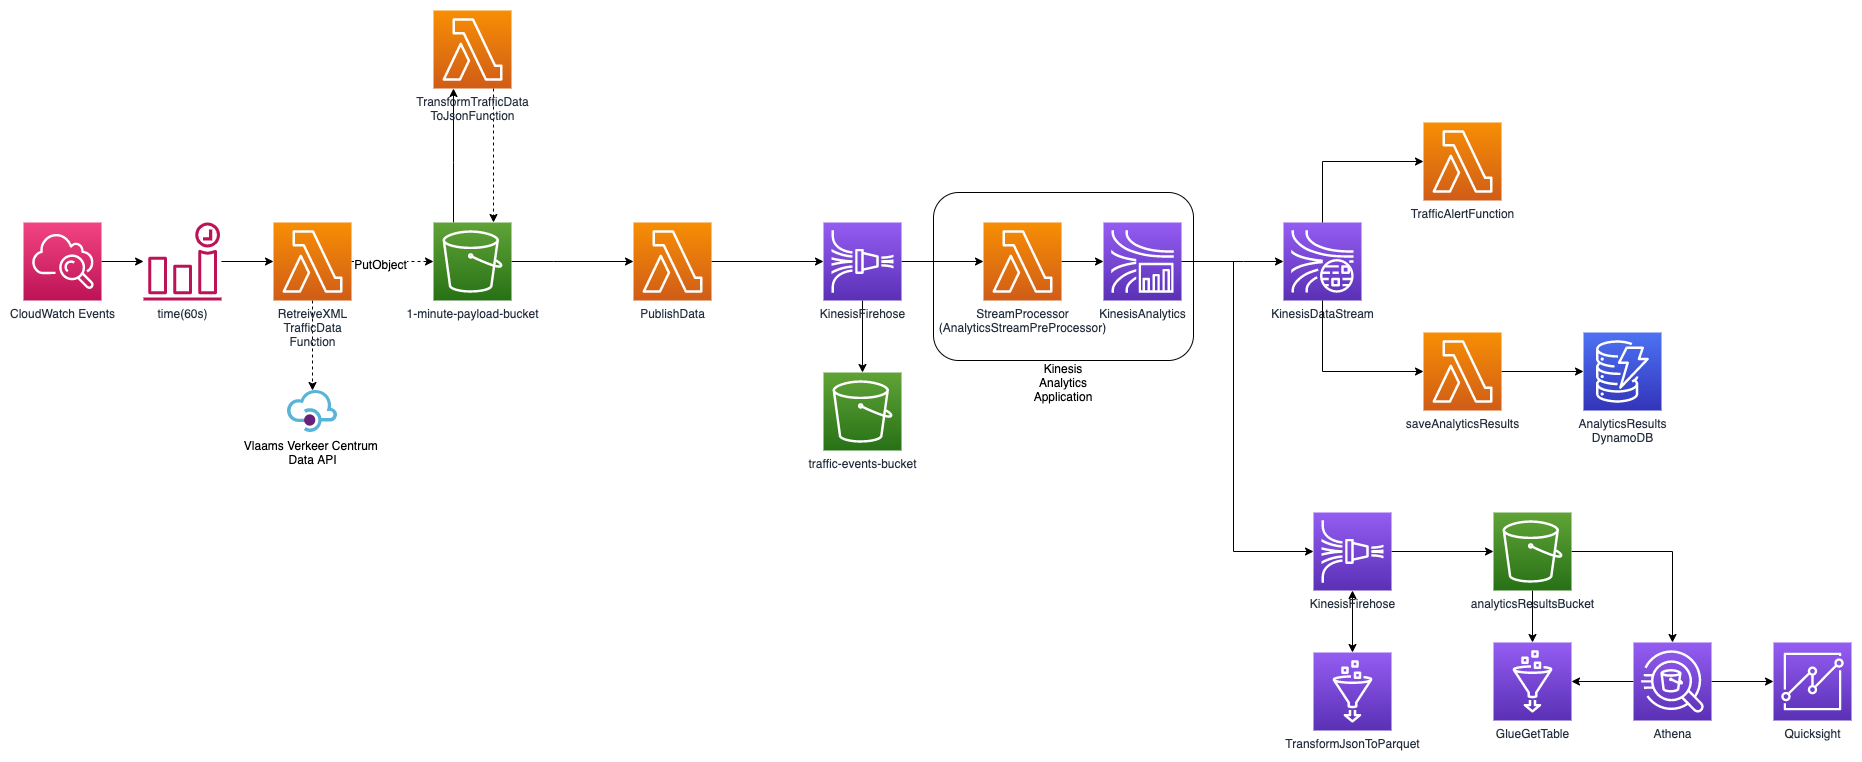
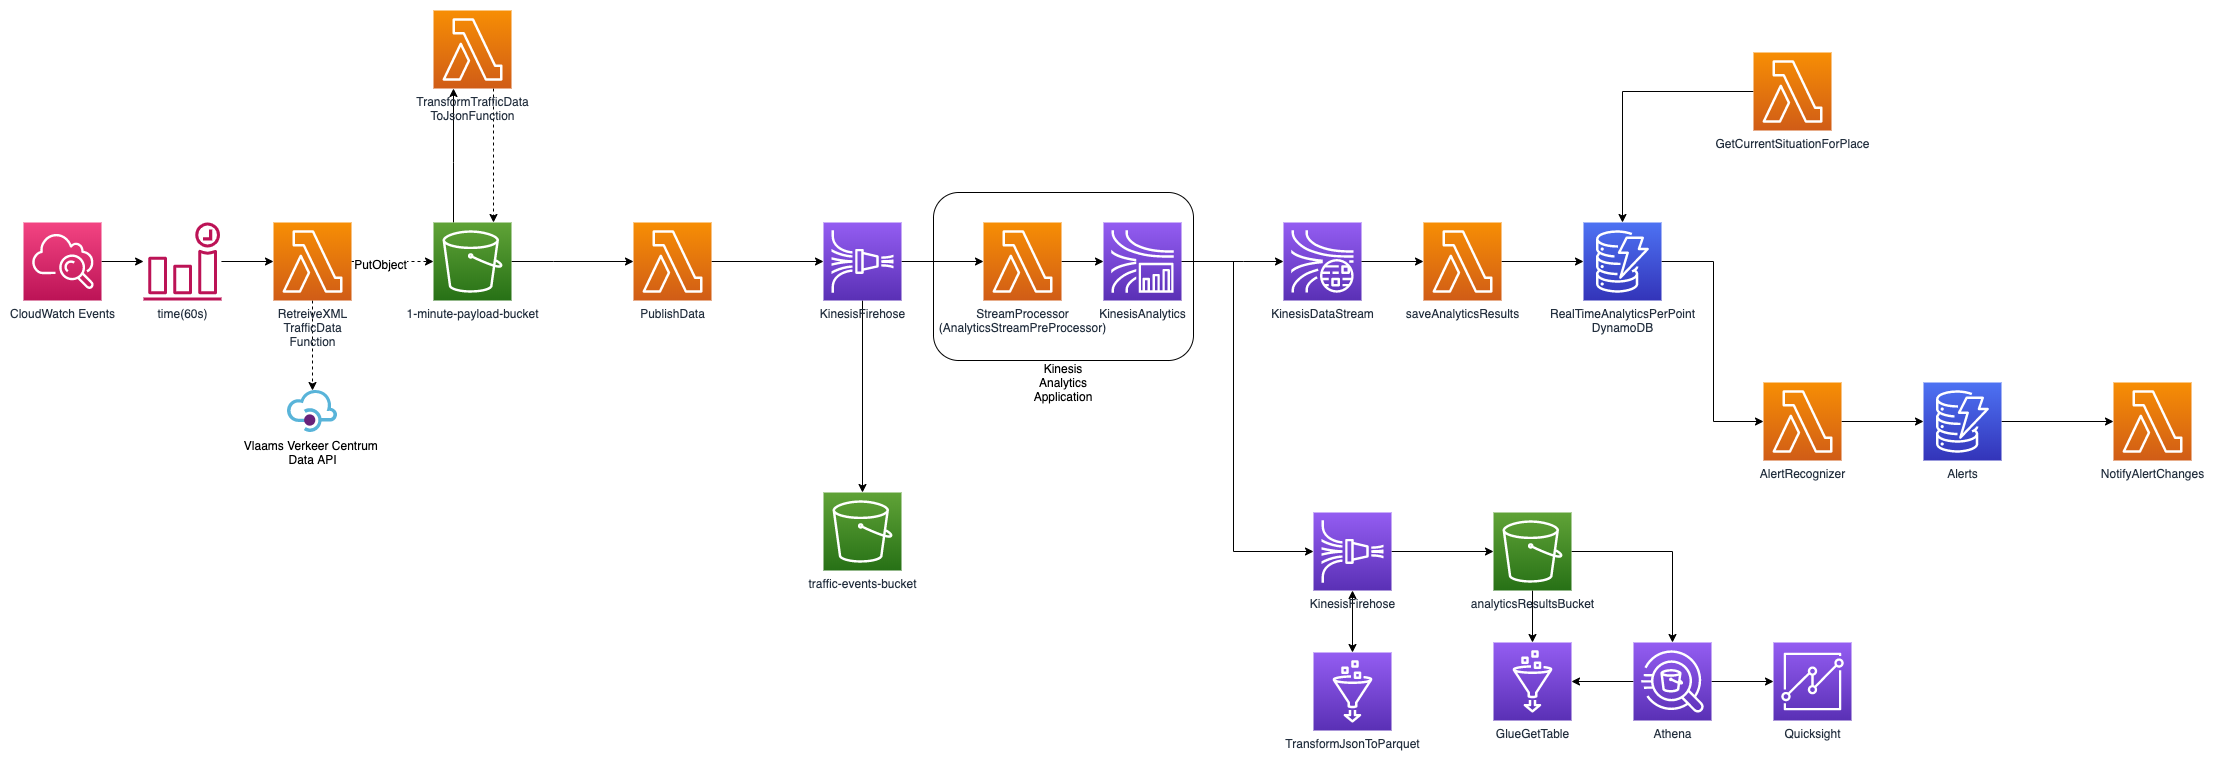
update tracing tool, account for empty new image key

diff --git a/src/integration_tests/tests.py b/src/integration_tests/tests.py
@@ -6,10 +6,10 @@ import time
 import json
 from pytest import fixture
 
-INPUT_BUCKET = 'sls-data-pipelines-dev-originbucket-1ayfh2rded747'
-KINESIS_FIREHOSE_STREAM_NAME = 'sls-data-pipelines-dev-DeliveryStream-16IMVP3IZ44PI'
-ANALYTICS_PER_POINT_DYNAMODB_TABLE_NAME = 'sls-data-pipelines-dev-RealTimeAnalyticsPerPointTable-SA8QAYI0NIZS'
-TRAFFIC_JAM_ALERTS_DYNAMODB_TABLE_NAME = 'sls-data-pipelines-dev-TrafficJamAlertsTable-TTQV18GUX745'
+INPUT_BUCKET = 'sls-data-pipelines-dev-originbucket-5hxa5803ppha'
+KINESIS_FIREHOSE_STREAM_NAME = 'sls-data-pipelines-dev-DeliveryStream-Q7X2Y3M0YUA8'
+ANALYTICS_PER_POINT_DYNAMODB_TABLE_NAME = 'sls-data-pipelines-dev-RealTimeAnalyticsPerPointTable-167B4GF1RTPIP'
+TRAFFIC_JAM_ALERTS_DYNAMODB_TABLE_NAME = 'sls-data-pipelines-dev-TrafficJamAlertsTable-35XW6S30O49K'
 
 RESOURCES_PATH = './test_resources'
 S3_XML_PREFIX = 'xml/input/'
@@ -43,7 +43,7 @@ def test_when_xml_is_put_on_bucket_it_is_correctly_converted_to_json():
 
 
 def test_when_events_are_put_on_firehose_that_match_filter_criteria_then_analytics_results_arrive_in_analytics_per_point_table(db_setup):
-    events = push_pre_configured_traffic_events_to_stream()
+    push_pre_configured_traffic_events_to_stream()
 
     time.sleep(90)  # give time for firehose and analytics app to process all events
 

diff --git a/src/AlertSaver/handler.py b/src/AlertSaver/handler.py
@@ -12,6 +12,8 @@ def handle(event, context):
     print('Successfully processed %s records.' % str(len(event['Records'])))
 
     for record in event['Records']:
+        if not record["dynamodb"].get("NewImage"):
+            continue
         print(record["dynamodb"]["NewImage"])
         if 'trafficJamIndicator' in record["dynamodb"]["NewImage"]:
             unique_id = record["dynamodb"]["NewImage"]["uniqueId"]['S']

diff --git a/scripts/push-straight-to-kinesis.py b/scripts/push-straight-to-kinesis.py
@@ -5,7 +5,7 @@ import os
 
 firehose_client = boto3.client('firehose')
 
-KINESIS_FIREHOSE_NAME = 'sls-data-pipelines-dev-DeliveryStream-16IMVP3IZ44PI'
+KINESIS_FIREHOSE_NAME = 'sls-data-pipelines-dev-DeliveryStream-Q7X2Y3M0YUA8'
 
 car_speeds = [120] * 10 \
              + list(range(120, 100, -5)) \

diff --git a/README.md b/README.md
@@ -121,4 +121,31 @@ Runt the integration tests on a separate environment
 cd src/integration_tests
 pytest tests.py 
 ```
+## Meetpunten vlaanderen test
+```xml
+<meetpunt unieke_id="2341">
+<beschrijvende_id>H192L00</beschrijvende_id>
+<volledige_naam>E313 Spitsstrook kmpt. 0,4</volledige_naam>
+<Ident_8>R0010411</Ident_8>
+<lve_nr>365</lve_nr>
+<Kmp_Rsys>1,003</Kmp_Rsys>
+<Rijstrook>R08</Rijstrook>
+<X_coord_EPSG_31370>155885,7969</X_coord_EPSG_31370>
+<Y_coord_EPSG_31370>211772,4354</Y_coord_EPSG_31370>
+<lengtegraad_EPSG_4326>4,452993707</lengtegraad_EPSG_4326>
+<breedtegraad_EPSG_4326>51,21587307</breedtegraad_EPSG_4326>
+</meetpunt>
 
+<meetpunt unieke_id="235">
+<beschrijvende_id>S311L10</beschrijvende_id>
+<volledige_naam>Knooppunt Antwerpen Oost R1-E313</volledige_naam>
+<Ident_8>R0010471</Ident_8>
+<lve_nr>64</lve_nr>
+<Kmp_Rsys>0,025</Kmp_Rsys>
+<Rijstrook>R10</Rijstrook>
+<X_coord_EPSG_31370>155834,4388</X_coord_EPSG_31370>
+<Y_coord_EPSG_31370>211883,1586</Y_coord_EPSG_31370>
+<lengtegraad_EPSG_4326>4,452260481</lengtegraad_EPSG_4326>
+<breedtegraad_EPSG_4326>51,21686882</breedtegraad_EPSG_4326>
+</meetpunt>
+```
